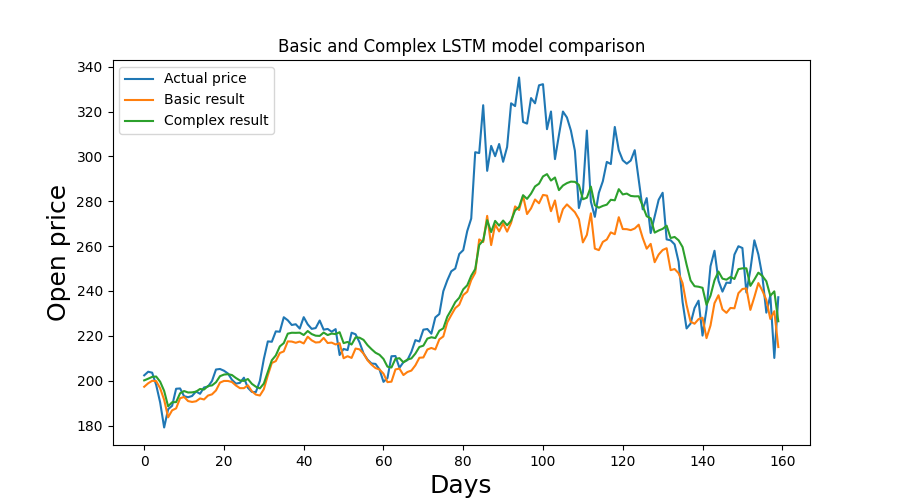
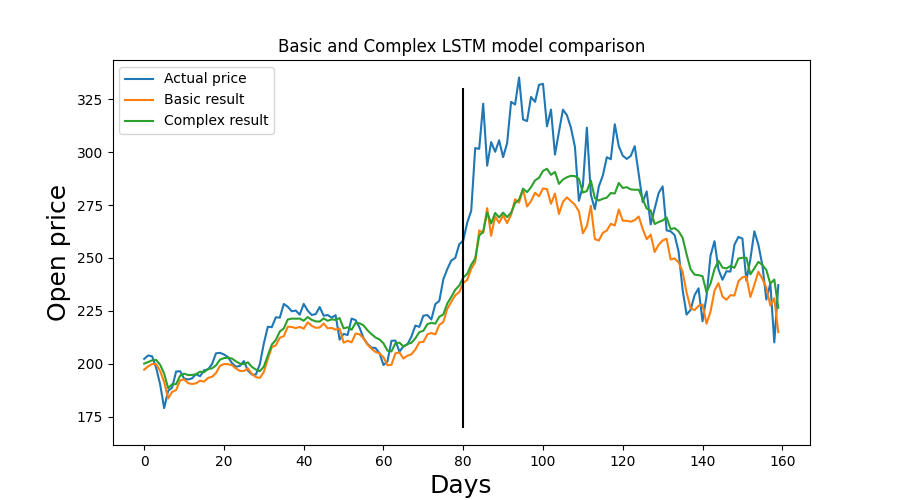
explanation of comparison

diff --git a/visualization.py b/visualization.py
@@ -21,7 +21,7 @@ def show_dataframe_chart(df: pd.DataFrame, title: str = ""):
     plt.show()
 
 ## Show chart of numpy arrays
-def show_np_arrays(data, labels, title:str, xlabel: str = "Days", ylabel: str = "Open price"):
+def show_np_arrays(data, labels, title:str, xlabel: str = "Days", ylabel: str = "Open price", vlines = None):
     plt.figure(figsize = (9,5))
     plt.xlabel(xlabel, fontsize=18)
     plt.ylabel(ylabel, fontsize=18)
@@ -29,6 +29,9 @@ def show_np_arrays(data, labels, title:str, xlabel: str = "Days", ylabel: str = 
     for i in range(len(data)):
         plt.plot(data[i], label=labels[i])
     plt.legend(loc = "upper left")
+    if vlines != None:
+        for vl in vlines:
+            plt.vlines(vl, 170, 330, colors='black')
     plt.show()
 
 ## Show regression chart

diff --git a/stock-prediction.py b/stock-prediction.py
@@ -200,5 +200,6 @@ actual = scaler.inverse_transform(np.reshape(y_test, (-1, 1)))
 vs.show_np_arrays(
     [actual, basic_preds, complex_preds],
     ['Actual price', 'Basic result', 'Complex result'],
-    'Basic and Complex LSTM model comparison'
+    'Basic and Complex LSTM model comparison',
+    vlines=[80]
 )

diff --git a/README.md b/README.md
@@ -115,6 +115,10 @@ The correlation between Nvidia and QQQ is 0.9575 which is not surprising conside
 
 ![Comparison](images/Basic-complex-comparison.png)
 
+Based on this comparison chart, it can be said, that the complex model is almost always more accurate than the simple one. In fact, it is true in general that the more factors you use to determine the price of a stock the better the results are going to be. It was excepted purely based on the Mean Absolute Error metric which in the case of the complex model was 0.07 as opposed to the 0.09 of the base model.
+
+Both results are more or less the same up until the 80th day. I would attribute it to the rapidly increasing volutility of the asset starting somewhere around Day 70. In the first half of the prediction cycle, linear extrapolation is fairly close to the actual prices however, it is way off from Day 80. This observation was further exaggerated by quadratic extrapolation.
+
 ## Plans for the future
 
 - Compare the results of each model and determine the best
